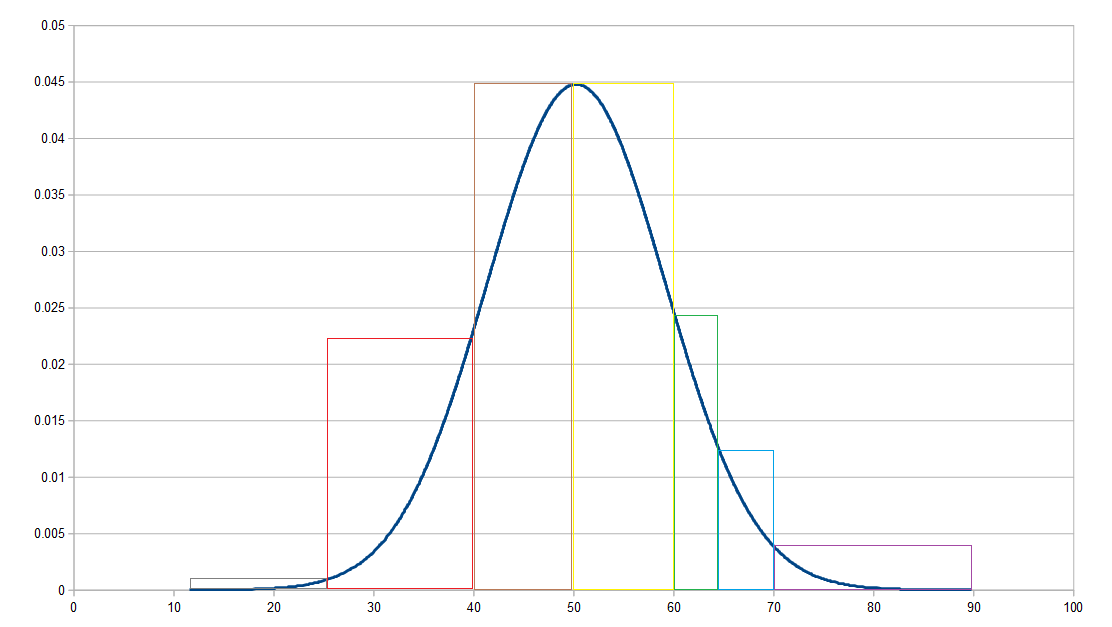
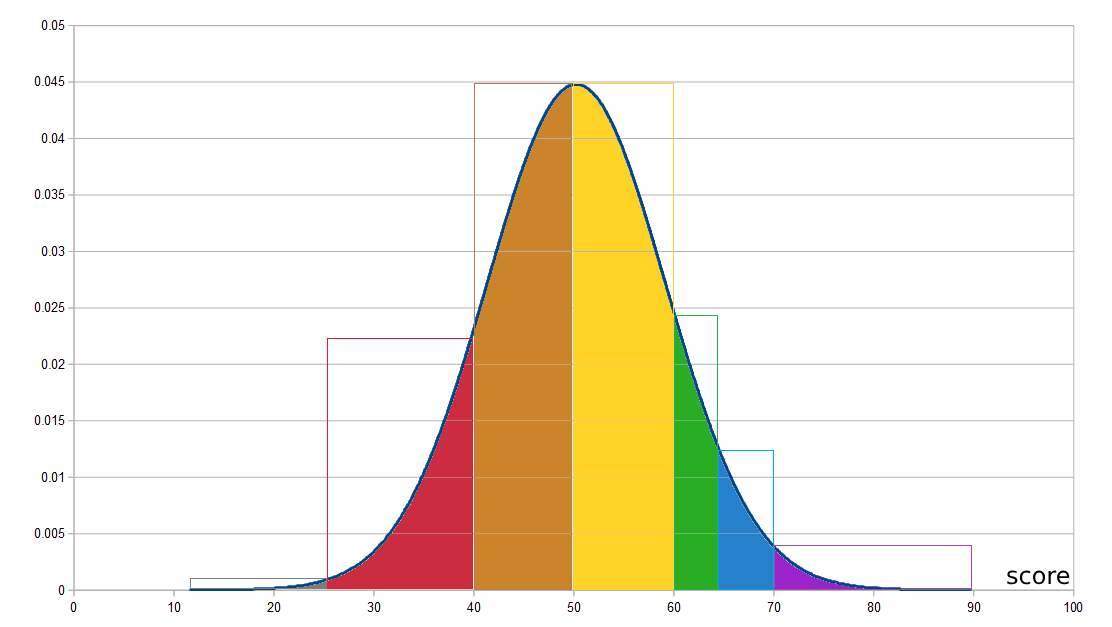
upgrade about page

Changed region(s): [[0.2752, 0.1212, 0.7644, 0.9394], [0.8867, 0.9091, 0.9784, 0.9394]]

diff --git a/about.html b/about.html
@@ -2,18 +2,22 @@
 <meta charset="utf-8">
 <html>
 <head>
-    <title>About Poland primary schools map</title>
+    <title>Poland primary schools map - about</title>
     <link rel="stylesheet" href="https://unpkg.com/leaflet/dist/leaflet.css" />
 	<link rel="stylesheet" href="styles.css">
 	<link rel="stylesheet" href="https://cdnjs.cloudflare.com/ajax/libs/font-awesome/6.5.1/css/all.min.css">
     <script src="https://unpkg.com/leaflet/dist/leaflet.js"></script>
 </head>
 <body>
+	<p>
+		The map shows primary schools along with their ratings, based on 8-year class exam results. <br/>
+		Below, you can see a Gaussian distribution of the results (for whole Poland), with score ranges highlighted in the same colors used on the map
+	</p>
 	<img src="gauss distribution.png" />
 
     <footer>
 		<div class="contact-wrapper">
-			<div class="contact"><i class="fa-regular fa-user"></i> Created by Dzmitry Paddubnik</div>
+			<div class="contact"><i class="fa-regular fa-user"></i> by Dzmitry Paddubnik</div>
 			<div class="contact"><a href="./index.html"><i class="fa-regular fa-map"></i> map</a></div>
 		</div>
     </footer>
